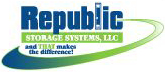
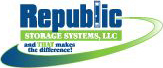
Modified .jpg's, html and less

Changed region(s): [[0.0, 0.0, 1.0, 1.0], [0.1534, 0.8824, 0.2147, 0.9118]]

diff --git a/lock-locker-compatibility-program.html b/lock-locker-compatibility-program.html
@@ -83,7 +83,7 @@
             </p>
             <h4>Option A</h4>
             <p>
-                The architect includes the <a href="docs/locker-lock-compatibility-program/LLCP_Architectural_Specification.pdf" target="_blank">LLCP
+                The architect includes the <a href="/Templates/Hodge/docs/locker-lock-compatibility-program/LLCP_Architectural_Specification.pdf" target="_blank">LLCP
                 Architectural Specification</a> in the job's specification package. By doing so, the contractor will
                 then be required to consult the LLCP Compatibility Matrix to verify the appropriate lock for the job. As
                 proof, the contractor will submit the Matrix with their bid package.
@@ -95,7 +95,7 @@
                 and includes the appropriate lock in the job's specification package.
             </p>
             <p>
-                <a href="docs/locker-lock-compatibility-program/LLCP_Architectural_Specification.pdf" target="_blank">Download Architectural
+                <a href="/Templates/Hodge/docs/locker-lock-compatibility-program/LLCP_Architectural_Specification.pdf" target="_blank">Download Architectural
                 Specifications</a>
             </p>
             <p>
@@ -104,8 +104,11 @@
             <div class="row wrapper-matrix">
 
                 <div class="col-matrix">
-                    <a href="docs/locker-lock-compatibility-program/LLCP_DeBourgh_Matrix.pdf" target="_blank">
-                        <img class="img-responsive" src="/Templates/Hodge/images/locker-lock-compatibility-program/debourgh-locker-lock.jpg" alt="DeBourgh Locker Lock">
+                    <a href="/Templates/Hodge/docs/locker-lock-compatibility-program/LLCP_DeBourgh_Matrix.pdf" target="_blank">
+                        <div class="wrapper-logo">
+                            <img class="img-responsive" src="/Templates/Hodge/images/locker-lock-compatibility-program/debourgh-locker-lock.jpg" alt="DeBourgh Locker Lock">
+                        </div>
+
                         <img class="img-responsive" src="/Templates/Hodge/images/locker-lock-compatibility-program/compatibility-matrix-debourgh.jpg" alt="Compatibility Matrix">
                         <span>DeBourgh Locker Lock</span>
                         <span>Compatibility Matrix Download</span>
@@ -113,8 +116,11 @@
                 </div>
 
                 <div class="col-matrix">
-                    <a href="docs/locker-lock-compatibility-program/LLCP_Lyon_Matrix.pdf" target="_blank">
-                        <img class="img-responsive" src="/Templates/Hodge/images/locker-lock-compatibility-program/lyon-locker-lock.jpg" alt="Lyon Locker Lock">
+                    <a href="/Templates/Hodge/docs/locker-lock-compatibility-program/LLCP_Lyon_Matrix.pdf" target="_blank">
+                        <div class="wrapper-logo">
+                            <img class="img-responsive" src="/Templates/Hodge/images/locker-lock-compatibility-program/lyon-locker-lock.jpg" alt="Lyon Locker Lock">
+                        </div>
+
                         <img class="img-responsive" src="/Templates/Hodge/images/locker-lock-compatibility-program/compatibility-matrix-lyon.jpg" alt="Compatibility Matrix">
                         <span>Lyon Locker Lock</span>
                         <span>Compatibility Matrix Download</span>
@@ -122,8 +128,11 @@
                 </div>
 
                 <div class="col-matrix">
-                    <a href="docs/locker-lock-compatibility-program/LLCP_Penco_Matrix.pdf" target="_blank">
-                        <img class="img-responsive" src="/Templates/Hodge/images/locker-lock-compatibility-program/penco-locker-lock.jpg" alt="Penco Locker Lock">
+                    <a href="/Templates/Hodge/docs/locker-lock-compatibility-program/LLCP_Penco_Matrix.pdf" target="_blank">
+                        <div class="wrapper-logo">
+                            <img class="img-responsive" src="/Templates/Hodge/images/locker-lock-compatibility-program/penco-locker-lock.jpg" alt="Penco Locker Lock">
+                        </div>
+
                         <img class="img-responsive" src="/Templates/Hodge/images/locker-lock-compatibility-program/compatibility-matrix-penco.jpg" alt="Compatibility Matrix">
                         <span>Penco Locker Lock</span>
                         <span>Compatibility Matrix Download</span>
@@ -131,8 +140,11 @@
                 </div>
 
                 <div class="col-matrix">
-                    <a href="docs/locker-lock-compatibility-program/LLCP_Republic_Matrix.pdf" target="_blank">
-                        <img class="img-responsive" src="/Templates/Hodge/images/locker-lock-compatibility-program/republic-locker-lock.jpg" alt="Republic Locker Lock">
+                    <a href="/Templates/Hodge/docs/locker-lock-compatibility-program/LLCP_Republic_Matrix.pdf" target="_blank">
+                        <div class="wrapper-logo">
+                            <img class="img-responsive" src="/Templates/Hodge/images/locker-lock-compatibility-program/republic-locker-lock.jpg" alt="Republic Locker Lock">
+                        </div>
+
                         <img class="img-responsive" src="/Templates/Hodge/images/locker-lock-compatibility-program/compatibility-matrix-republic.jpg" alt="Compatibility Matrix">
                         <span>Republic Locker Lock</span>
                         <span>Compatibility Matrix Download</span>

diff --git a/CSS/hpi-virtual-lock-locker-compatibility-program.less b/CSS/hpi-virtual-lock-locker-compatibility-program.less
@@ -28,6 +28,7 @@
 @gray-background: #f5f7f9;
 @black: #000;
 @blue: #48c;
+@gray-dark: #3b4348;
 @gray-light: #e0e0e0;
 @gray-medium: #929292;
 @green-light: #bde6c6;
@@ -82,6 +83,7 @@ h2 {
     margin-bottom: 30px;
     font-size: 22px;
     font-weight: 600;
+    color: @gray-dark;
 }
 
 h3 {
@@ -104,6 +106,29 @@ h5 {
 
 /* PAGE-CONTENTS
 ========================================================================== */
+
+div [class^="section"] {
+    border: 1px dotted @gray-dark;
+    .border-radius();
+    padding: 10px;
+    
+    h2:first-child {
+        color: @gray-dark;
+        margin-bottom: 50px;
+    }
+    
+    @media @tablet-min {
+        min-height: 1105px;
+    }
+    
+    @media @desktop-min {
+        min-height: 950px;
+    }
+}
+
+h3 ~p, h4 ~ p {
+    margin-left: 20px
+}
 
 .wrapper-compatibility-program {
     
@@ -128,16 +153,34 @@ h5 {
     @media @desktop-min {
         width: 50%;
     }
+    
+    &.details {
+        border-right: 1px dashed @gray-medium;
+    }
+    
+    .section-details {
+        //padding: 0 10px 0 0;
+    }
+    
+    .section-architects {
+        //padding: 0 0 0 10px;
+        
+        div:last-child{
+            padding: 10px;
+        }
+    }
 }
 
 .wrapper-matrix {
     float: left;
     width: 100%;
+    margin: 0 0 30px 0;
 }
 
 .col-matrix {
     float: left;
     width: 50%;
+    border: 1px dotted @gray-medium;
     padding: 5px;
     
     @media @tablet-min {
@@ -156,6 +199,9 @@ h5 {
         display: block;
     }
     
+    .wrapper-logo {
+        height: 100px;
+    }
 }
 
 .small-text {

diff --git a/CSS/hpi-virtual-lock-locker-compatibility-program.css b/CSS/hpi-virtual-lock-locker-compatibility-program.css
@@ -8,6 +8,7 @@ h2 {
   margin-bottom: 30px;
   font-size: 22px;
   font-weight: 600;
+  color: #3b4348;
 }
 h3 {
   margin-bottom: 15px;
@@ -26,6 +27,34 @@ h5 {
 }
 /* PAGE-CONTENTS
 ========================================================================== */
+div [class^="section"] {
+  border: 1px dotted #3b4348;
+  -webkit-border-radius: 5px;
+  -moz-border-radius: 5px;
+  border-radius: 5px;
+  -moz-background-clip: padding;
+  -webkit-background-clip: padding-box;
+  background-clip: padding-box;
+  padding: 10px;
+}
+div [class^="section"] h2:first-child {
+  color: #3b4348;
+  margin-bottom: 50px;
+}
+@media (min-width: 768px) {
+  div [class^="section"] {
+    min-height: 1105px;
+  }
+}
+@media (min-width: 992px) {
+  div [class^="section"] {
+    min-height: 950px;
+  }
+}
+h3 ~ p,
+h4 ~ p {
+  margin-left: 20px;
+}
 .wrapper-compatibility-program {
   margin: 25px auto 0 auto;
 }
@@ -49,13 +78,21 @@ h5 {
     width: 50%;
   }
 }
+.col-wrapper.details {
+  border-right: 1px dashed #929292;
+}
+.col-wrapper .section-architects div:last-child {
+  padding: 10px;
+}
 .wrapper-matrix {
   float: left;
   width: 100%;
+  margin: 0 0 30px 0;
 }
 .col-matrix {
   float: left;
   width: 50%;
+  border: 1px dotted #929292;
   padding: 5px;
 }
 @media (min-width: 768px) {
@@ -73,6 +110,9 @@ h5 {
 }
 .col-matrix span {
   display: block;
+}
+.col-matrix .wrapper-logo {
+  height: 100px;
 }
 .small-text {
   font-size: 12px;
